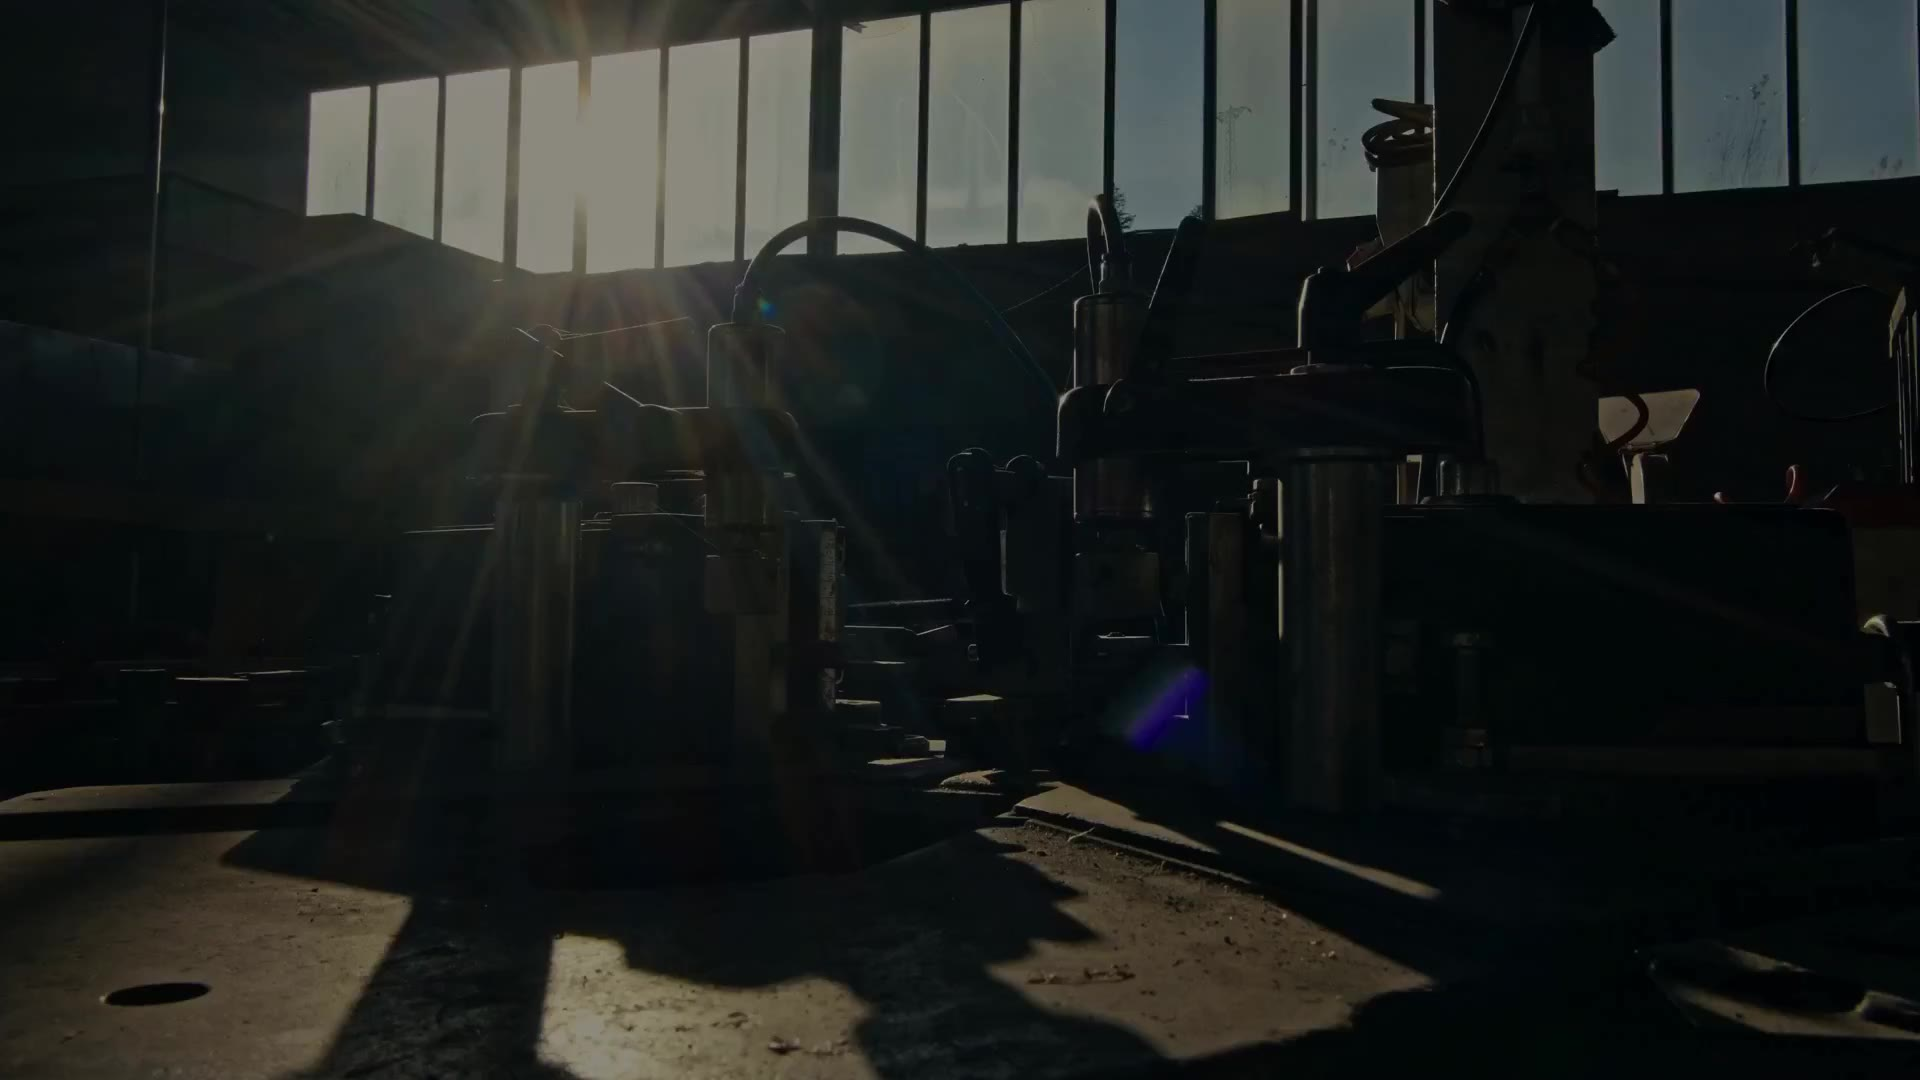
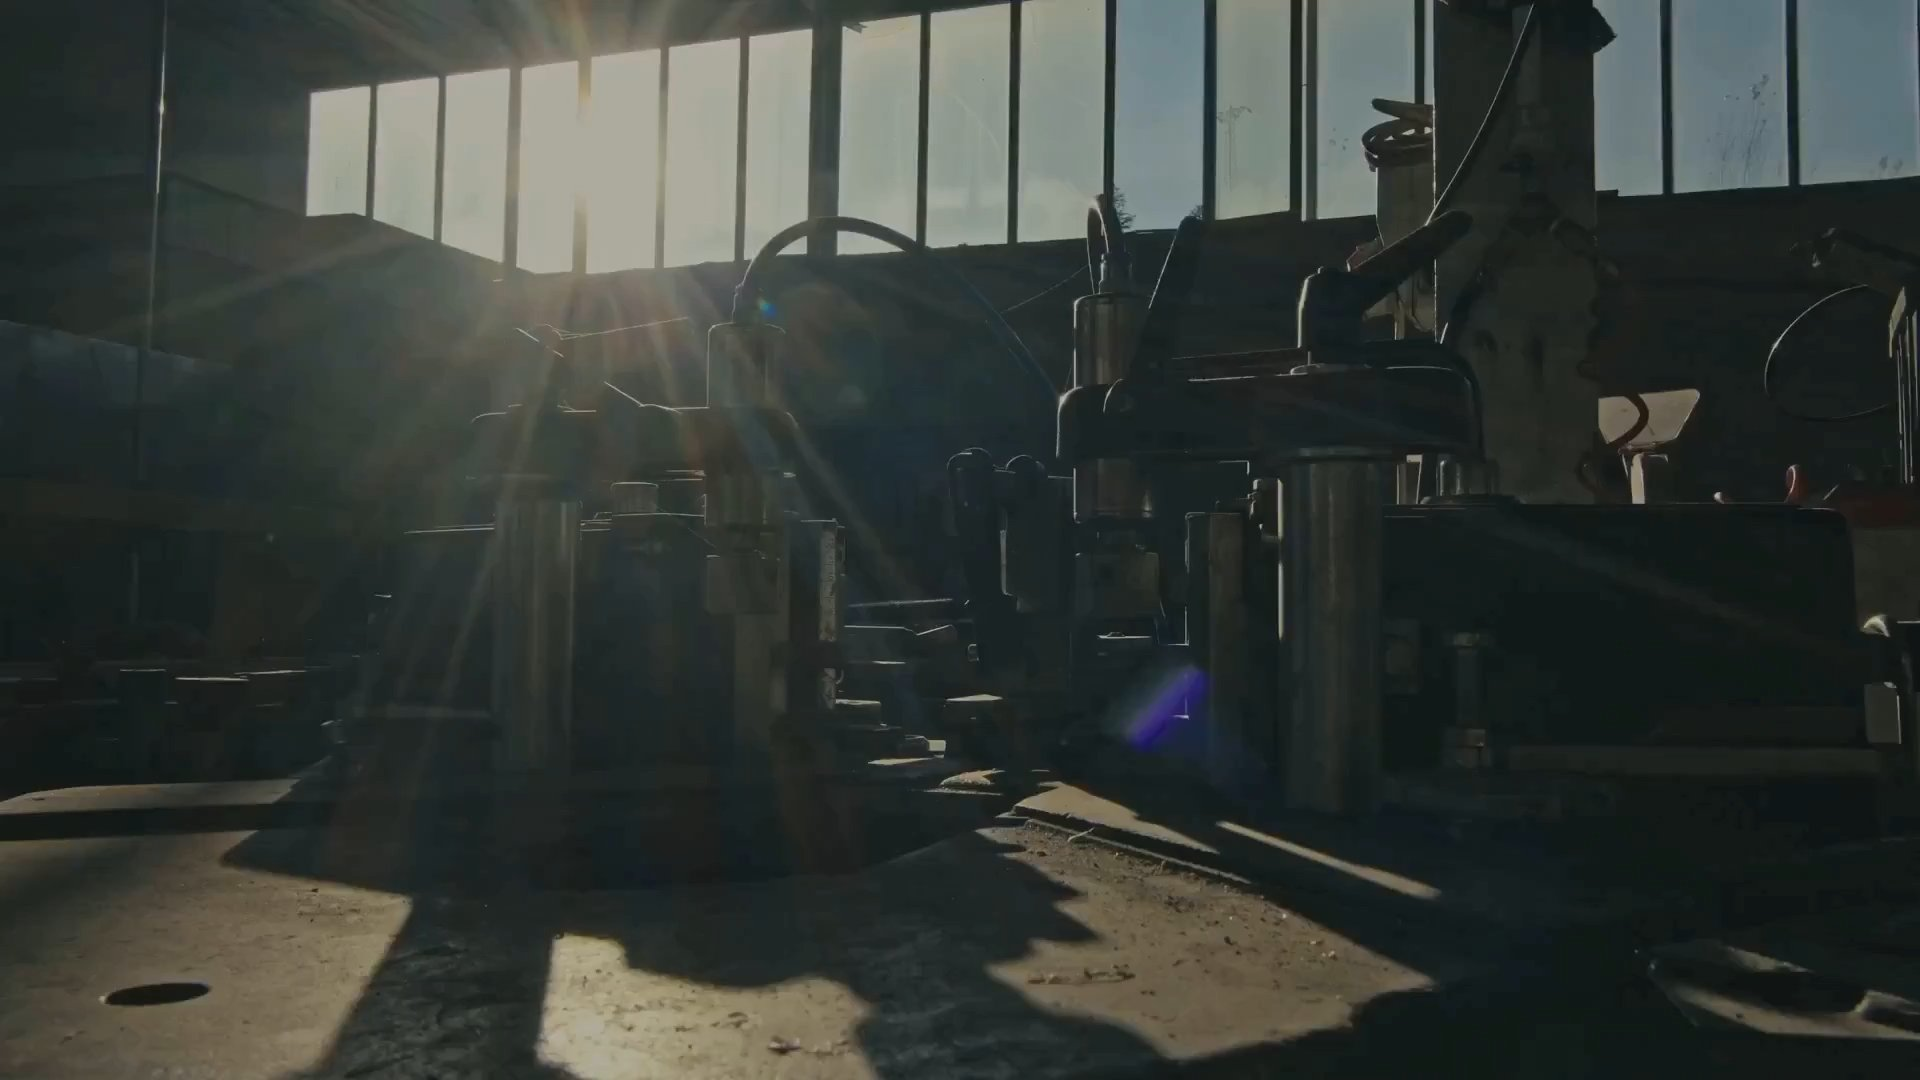
Fix dark flash before hero video plays
The poster was still the first frame of the old, darker video, so every
load showed it until the new video started. Re-export it from the new
video's first frame and version both URLs so cached copies are skipped.

diff --git a/src/components/ui/HeroVideo.tsx b/src/components/ui/HeroVideo.tsx
@@ -13,7 +13,9 @@
  * opacity on a playing video are re-applied to every frame, and together
  * with the slow drift animation they made playback stutter on laptops.
  * If the video is ever replaced, re-export it with that look (or put the
- * filters back on the className below) and export a new first-frame poster.
+ * filters back on the className below) and export a new first-frame poster:
+ *   ffmpeg -i hero-bg-boomerang.mp4 -frames:v 1 -q:v 3 hero-bg-poster.jpg
+ * A stale poster shows the old look until the new video starts playing.
  *
  * PING-PONG LOOP: the video plays forward, then in reverse, then forward
  * again, instead of jumping back to the start. This is baked into the file

diff --git a/src/components/sections/HomeBlocks.tsx b/src/components/sections/HomeBlocks.tsx
@@ -377,8 +377,10 @@ export function HomeHero({
   return (
     <header className="margo-hero bg-canvas relative isolate overflow-hidden hero-offset pb-24 md:pb-32">
       <HeroVideo
-        src="/videos/hero-bg-boomerang.mp4"
-        poster="/videos/hero-bg-poster.jpg"
+        // Bump ?v= whenever the video or poster file is replaced, so cached
+        // copies of the old files are not shown.
+        src="/videos/hero-bg-boomerang.mp4?v=2"
+        poster="/videos/hero-bg-poster.jpg?v=2"
         className="margo-hero-image -z-20"
       />
       <div
